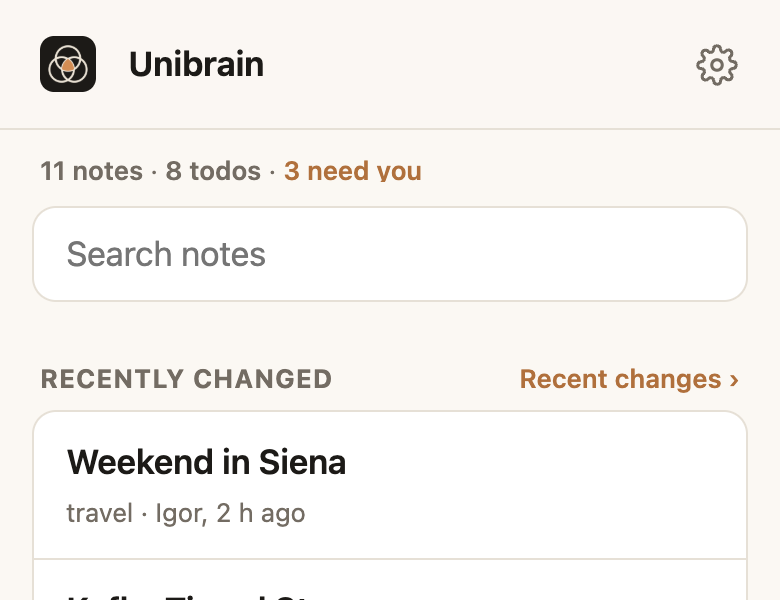
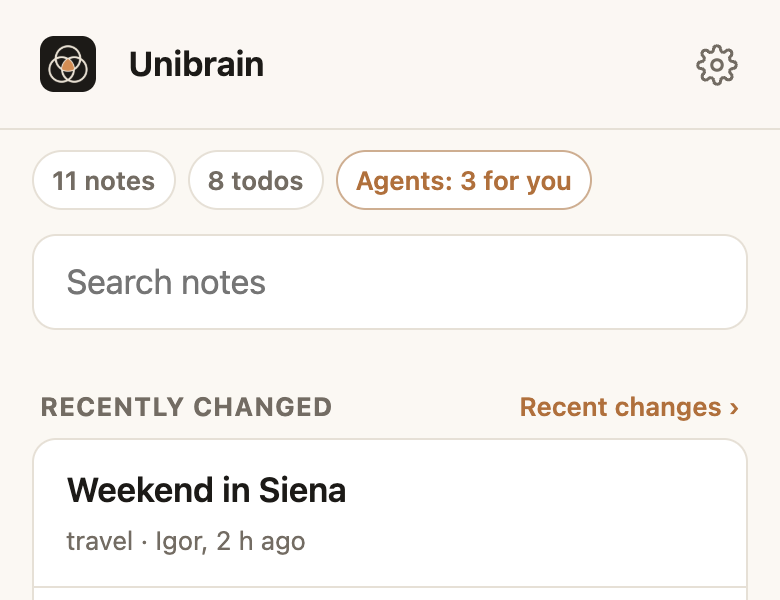
Home's counts are pills; new wording for the agents one
Screenshots of Home retaken; the web app and mission control pages describe the row of
pills and its three agent states.

diff --git a/docs/features/mission-control.md b/docs/features/mission-control.md
@@ -54,18 +54,18 @@ Open **⚙ Settings**, scroll to **Agents page (alpha)**, choose **On** and save
 <figcaption>The switch, in Settings</figcaption>
 </figure>
 <figure markdown>
-![The home screen's line of counts with a third figure: 3 need you](../assets/images/shot-agents-home.png)
+![The home screen's row of pills with a third one: Agents: 3 for you](../assets/images/shot-agents-home.png)
 <figcaption>Home gains a figure for your agents</figcaption>
 </figure>
 </div>
 
-The home screen's line of counts gains a third figure, which opens the page:
+The home screen's row of pills gains a third one, which opens the page:
 
 | It says | Meaning |
 |---|---|
-| *7 agents OK* | Nothing needs you |
-| *3 need you* (amber) | Something is in the Needs you list |
-| *1 agent overdue or failed* (red) | An agent missed its time, or reported a failure |
+| *Agents: OK* | Nothing needs you |
+| *Agents: 3 for you* (amber) | Three items are in the Needs you list |
+| *Agents: 1 failing* (red) | An agent missed its time, or reported a failure |
 
 Turning it **off** hides the page and the figure and stops the recording at once. What was recorded is kept, and shown again if you turn it back on. **Delete Agents data** removes it for good.
 

diff --git a/docs/features/web-app.md b/docs/features/web-app.md
@@ -24,7 +24,7 @@ The web app is where you **read, review and write**: what your agents saved, and
 ## Getting around
 
 - A **tab bar** at the bottom: Home, Folders, New, Tasks, Offline.
-- **Home** starts with one line of numbers, how many notes and open todos you have. Tap a number to go to Folders or Tasks.
+- **Home** starts with a row of pills: how many notes and open todos you have. Tap one to go to Folders or Tasks.
 - **Pull down** at the top of any screen to refresh it.
 - **Back keeps your place:** your scroll position, search results and expanded lists.
 - **Back-to-top** and **jump-to-bottom** buttons on long pages, handy for logs whose newest entries are at the end.
